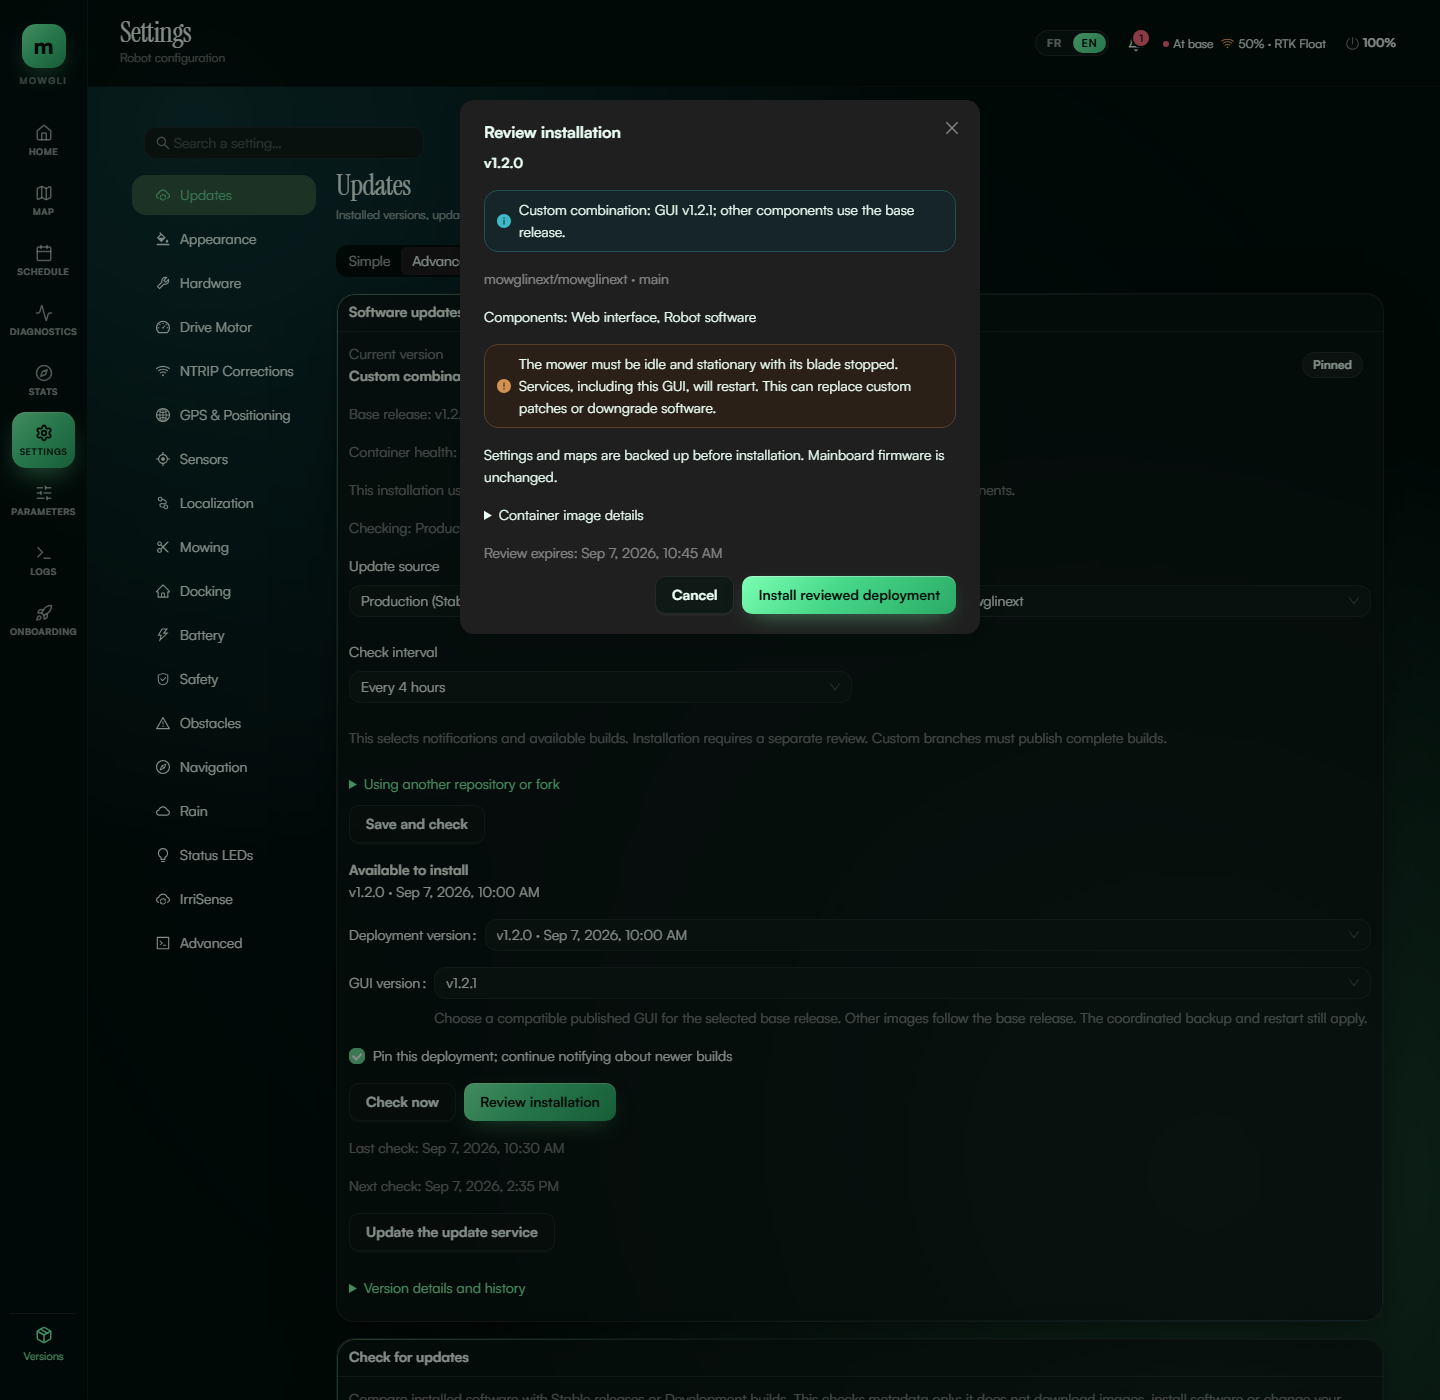
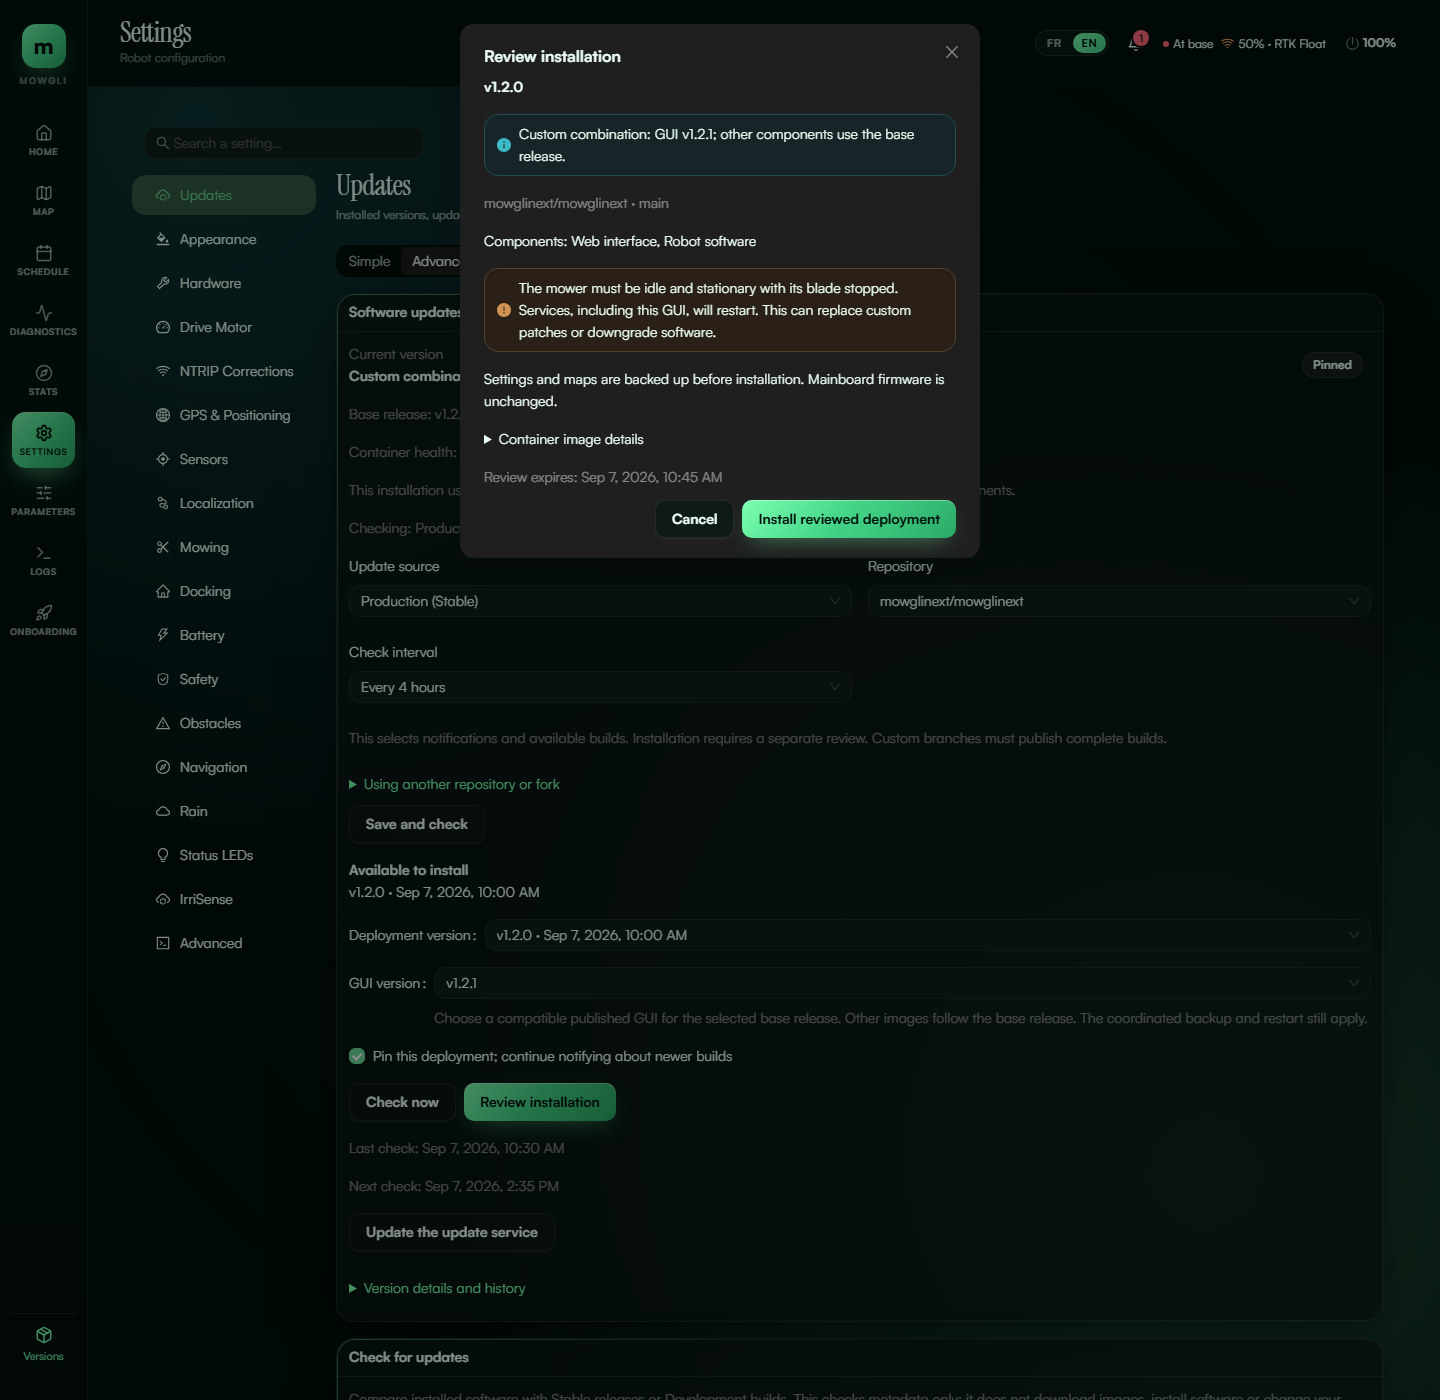
docs: show release stack changes in updater screenshots

Changed region(s): [[0.3125, 0.0, 0.6875, 0.4607]]

diff --git a/screenshots/UPDATER-README.md b/screenshots/UPDATER-README.md
@@ -10,3 +10,11 @@ Custom combination / GUI override / review: desktop 1440x1400, mobile 390x844.
 Mobile Advanced screenshots scroll to the relevant controls. Review animations
 are settled before capture. These screenshots illustrate the UI, not hardware
 acceptance or completed upstream publication.
+
+
+Release-owned stack review: `host-updater-stack-review-{desktop,mobile}.png`.
+These simulate upstream production v1.2.0 to v1.3.0 with a required navigation
+helper added, a legacy helper retired, GPS retained, LiDAR disabled by installer
+selection, and MQTT kept local. Releases, services and image identities are
+illustrative fixtures, not claims about published upstream builds or hardware.
+The mobile modal keeps installation/cancellation visible while details scroll.
